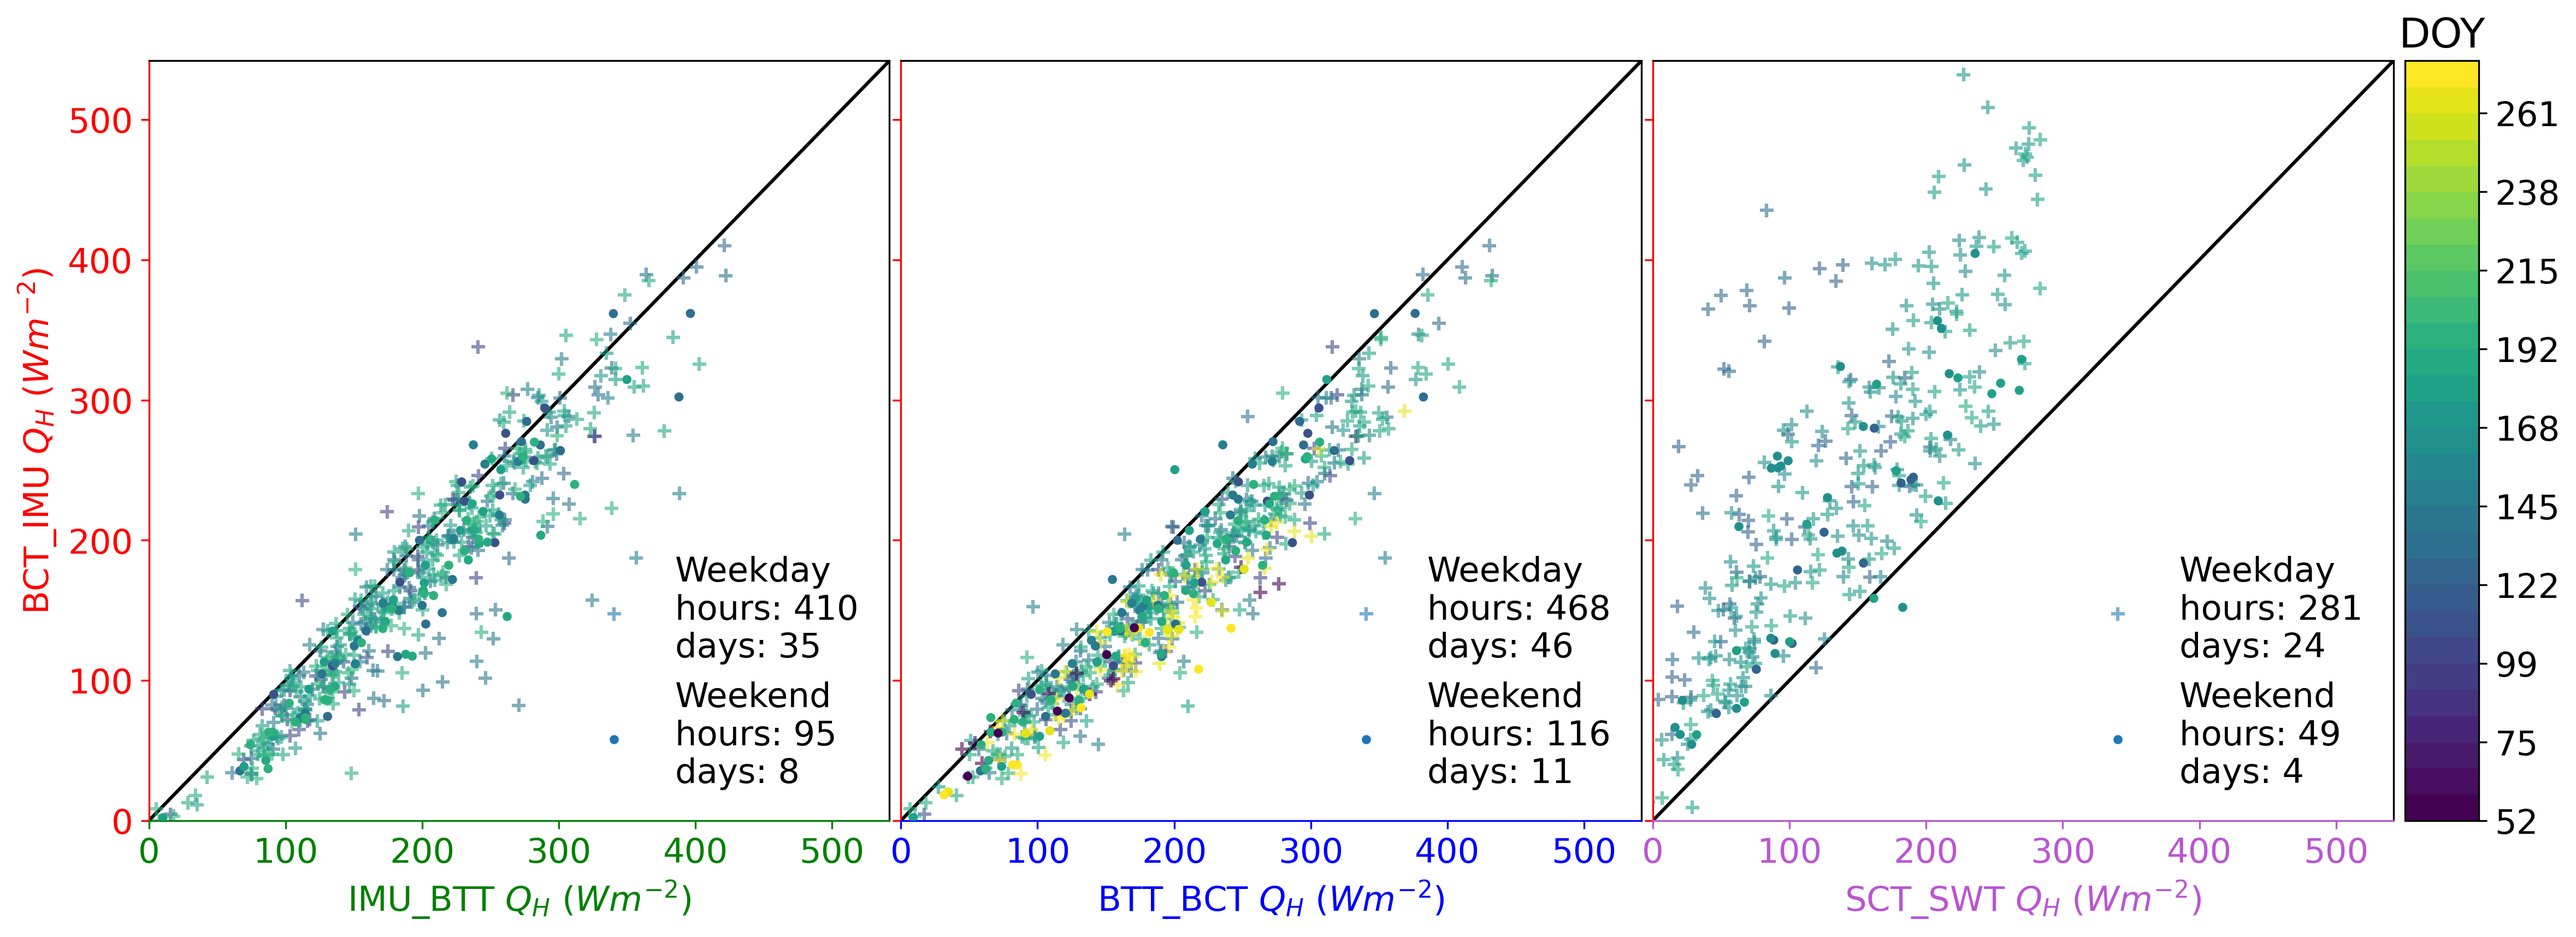
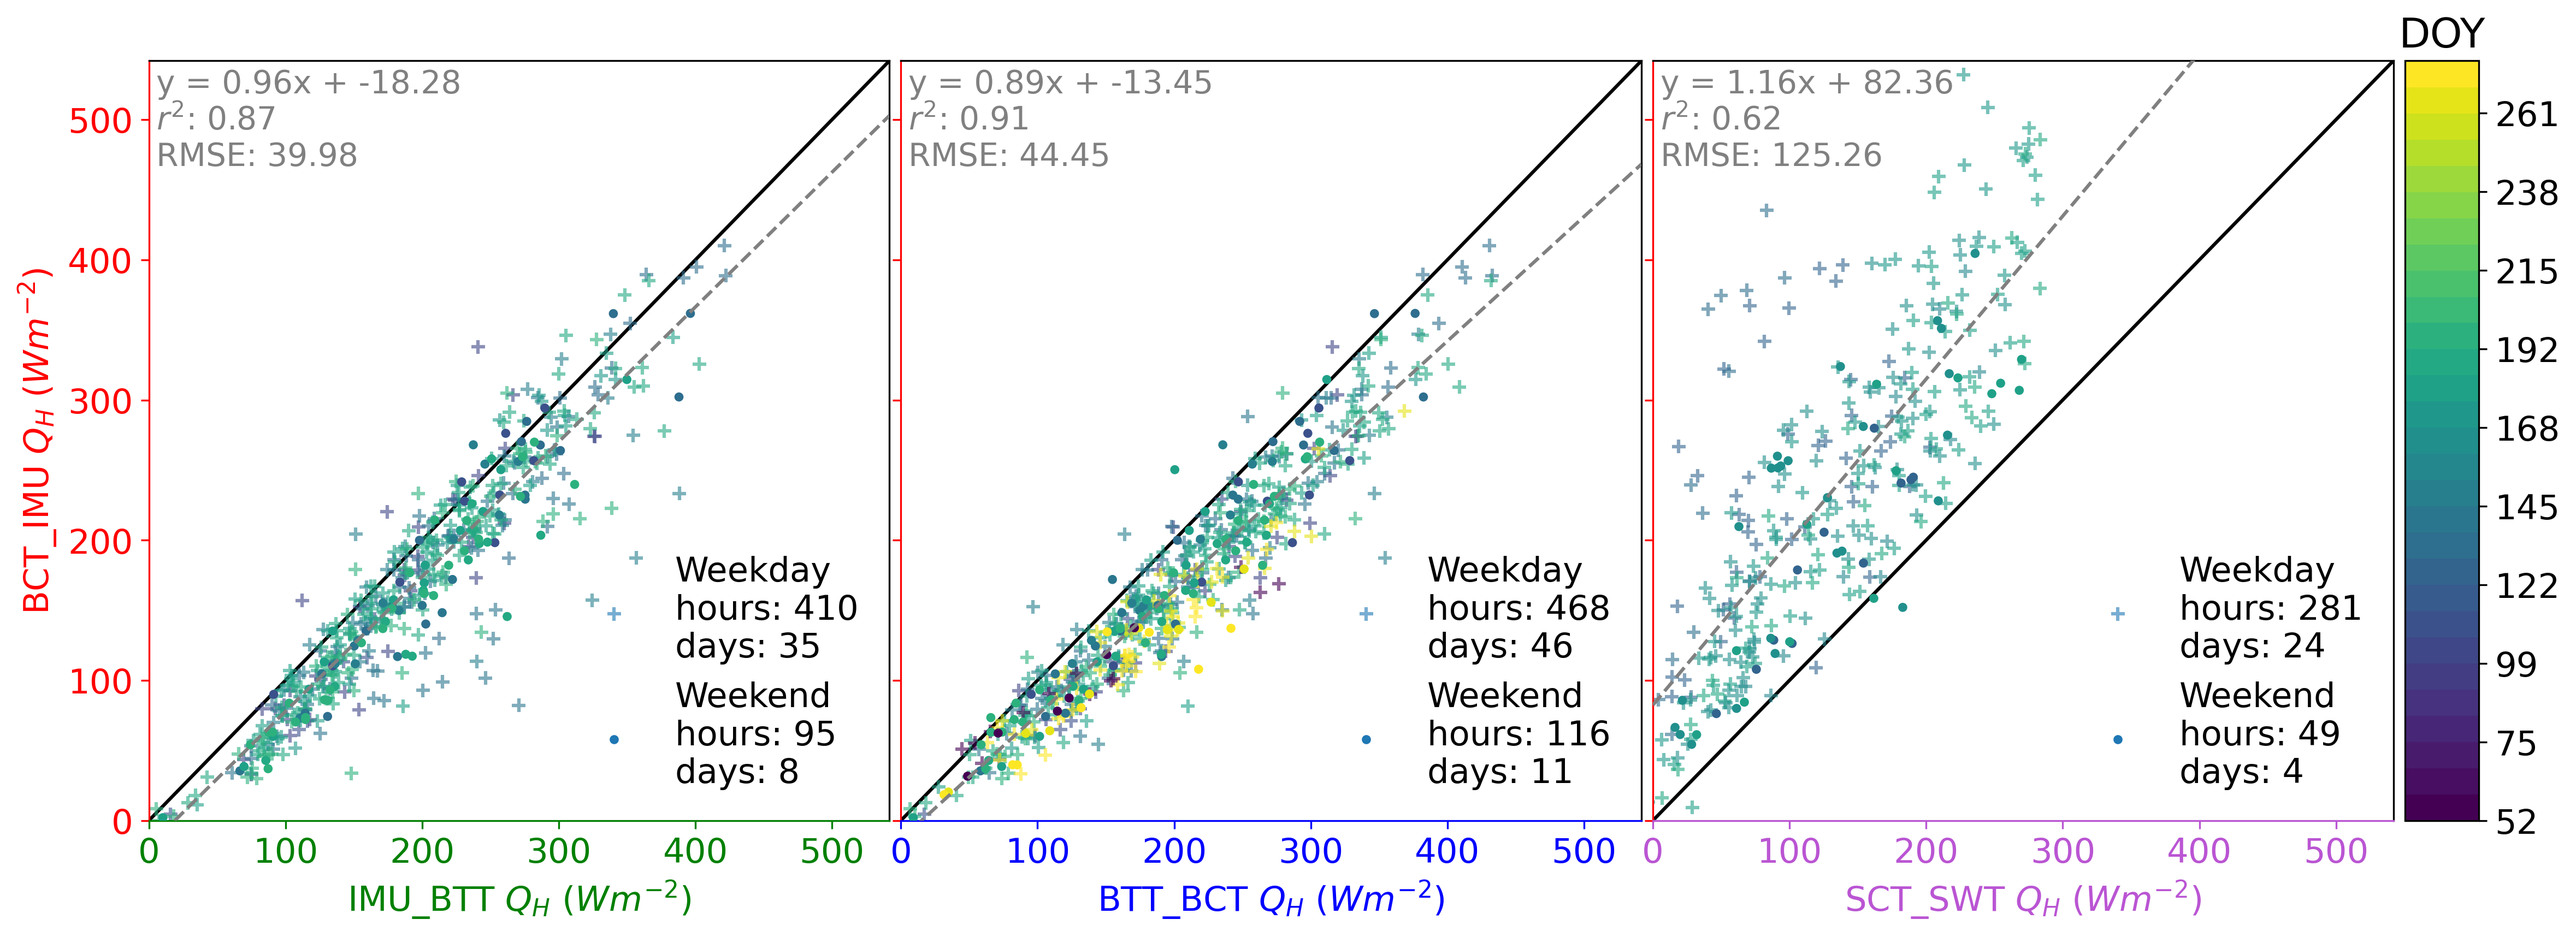
add linear regression stats

diff --git a/scint_plots/path_comparison/path_scatter.py b/scint_plots/path_comparison/path_scatter.py
@@ -7,6 +7,7 @@ import numpy as np
 import matplotlib.pyplot as plt
 import matplotlib as mpl
 import os
+from scipy import stats
 
 mpl.rcParams.update({'font.size': 15})
 
@@ -40,6 +41,15 @@ def read_all_scint_data():
     return df_combine
 
 
+def rmse(obs, mod):
+    # ROOT MEAN SQUARE ERROR FUNCTION
+    differencesrmse = mod - obs
+    differences_squared = differencesrmse ** 2
+    mean_of_differences_squared = differences_squared.mean()
+    rmse_val = np.sqrt(mean_of_differences_squared)
+    return rmse_val
+
+
 def scatter_paths(df_combine, save_path):
     """
 
@@ -67,7 +77,29 @@ def scatter_paths(df_combine, save_path):
     df_weekend = df_combine.iloc[weekend_index]
     df_weekday = df_combine.iloc[weekday_index]
 
+    # limits of axis
+    ax_max = df_combine.max().max() + 10
+    ax_min = 0
+
     # BCT_IMU VS IMU_BTT
+
+    # stats
+    # all df
+    all_df_0 = df_combine[['QH_13', 'QH_12']].dropna()
+    gradient0, intercept0, r_value0, p_value0, std_err0 = stats.linregress(all_df_0.QH_13, all_df_0.QH_12)
+    x1_all = np.linspace(ax_min, ax_max, 500)
+    y10 = gradient0 * x1_all + intercept0
+    ax[0].plot(x1_all, y10, linestyle='--', color='grey', zorder=4)
+
+    # text
+    line_string_0 = 'y = ' + str(round(gradient0, 2)) + 'x + ' + str(round(intercept0, 2))
+    r_squ_0 = r_value0 ** 2
+    rmse_0 = rmse(all_df_0.QH_13, all_df_0.QH_12)
+
+    label_string_0 = line_string_0 + '\n' + '$r^{2}$: ' + str(round(r_squ_0, 2)) + '\n' + 'RMSE: ' + str(round(rmse_0, 2))
+    ax[0].text(.01, .99, label_string_0, ha='left', va='top', transform=ax[0].transAxes, color='grey', fontsize=14)
+
+
     # weekday
     weekday_label_0 = 'Weekday\nhours: ' + str(len(df_weekday[['QH_13', 'QH_12']].dropna())) + '\ndays: ' + str(len(
         [group[1] for group in
@@ -89,6 +121,22 @@ def scatter_paths(df_combine, save_path):
     ax[0].xaxis.label.set_color('green')
 
     # BCT_IMU VS BTT_BCT
+
+    # stats
+    # all df
+    all_df_1 = df_combine[['QH_11', 'QH_12']].dropna()
+    gradient1, intercept1, r_value1, p_value1, std_err1 = stats.linregress(all_df_1.QH_11, all_df_1.QH_12)
+    y11 = gradient1 * x1_all + intercept1
+    ax[1].plot(x1_all, y11, linestyle='--', color='grey', zorder=4)
+
+    # text
+    line_string_1 = 'y = ' + str(round(gradient1, 2)) + 'x + ' + str(round(intercept1, 2))
+    r_squ_1 = r_value1 ** 2
+    rmse_1 = rmse(all_df_1.QH_11, all_df_1.QH_12)
+
+    label_string_1 = line_string_1 + '\n' + '$r^{2}$: ' + str(round(r_squ_1, 2)) + '\n' + 'RMSE: ' + str(round(rmse_1, 2))
+    ax[1].text(.01, .99, label_string_1, ha='left', va='top', transform=ax[1].transAxes, color='grey', fontsize=14)
+
     # weekday
     weekday_label_1 = 'Weekday\nhours: ' + str(len(df_weekday[['QH_11', 'QH_12']].dropna())) + '\ndays: ' + str(len(
         [group[1] for group in
@@ -112,6 +160,22 @@ def scatter_paths(df_combine, save_path):
     ax[1].xaxis.label.set_color('blue')
 
     # BCT_IMU VS SCT_SWT
+
+    # stats
+    # all df
+    all_df_2 = df_combine[['QH_15', 'QH_12']].dropna()
+    gradient2, intercept2, r_value2, p_value2, std_err2 = stats.linregress(all_df_2.QH_15, all_df_2.QH_12)
+    y12 = gradient2 * x1_all + intercept2
+    ax[2].plot(x1_all, y12, linestyle='--', color='grey', zorder=4)
+
+    # text
+    line_string_2 = 'y = ' + str(round(gradient2, 2)) + 'x + ' + str(round(intercept2, 2))
+    r_squ_2 = r_value2 ** 2
+    rmse_2 = rmse(all_df_2.QH_15, all_df_2.QH_12)
+
+    label_string_2 = line_string_2 + '\n' + '$r^{2}$: ' + str(round(r_squ_2, 2)) + '\n' + 'RMSE: ' + str(round(rmse_2, 2))
+    ax[2].text(.01, .99, label_string_2, ha='left', va='top', transform=ax[2].transAxes, color='grey', fontsize=14)
+
     # weekday
     weekday_label_2 = 'Weekday\nhours: ' + str(len(df_weekday[['QH_15', 'QH_12']].dropna())) + '\ndays: ' + str(len(
         [group[1] for group in
@@ -144,21 +208,17 @@ def scatter_paths(df_combine, save_path):
     ax[2].spines['left'].set_color('red')
     ax[2].tick_params(axis='y', colors='red')
 
-    ax_x_max = df_combine.max().max() + 10
-    ax_y_max = df_combine.QH_12.max().max() + 10
+    ax[0].set_xlim(ax_min, ax_max)
+    ax[1].set_xlim(ax_min, ax_max)
+    ax[2].set_xlim(ax_min, ax_max)
 
-    ax_min = 0
-    ax[0].set_xlim(ax_min, ax_x_max)
-    ax[1].set_xlim(ax_min, ax_x_max)
-    ax[2].set_xlim(ax_min, ax_x_max)
+    ax[0].set_ylim(ax_min, ax_max)
+    ax[1].set_ylim(ax_min, ax_max)
+    ax[2].set_ylim(ax_min, ax_max)
 
-    ax[0].set_ylim(ax_min, ax_y_max)
-    ax[1].set_ylim(ax_min, ax_y_max)
-    ax[2].set_ylim(ax_min, ax_y_max)
-
-    ax[0].plot((ax_min, ax_y_max), (ax_min, ax_y_max), color='k', zorder=1)
-    ax[1].plot((ax_min, ax_y_max), (ax_min, ax_y_max), color='k', zorder=1)
-    ax[2].plot((ax_min, ax_y_max), (ax_min, ax_y_max), color='k', zorder=1)
+    ax[0].plot((ax_min, ax_max), (ax_min, ax_max), color='k', zorder=1)
+    ax[1].plot((ax_min, ax_max), (ax_min, ax_max), color='k', zorder=1)
+    ax[2].plot((ax_min, ax_max), (ax_min, ax_max), color='k', zorder=1)
 
     cax = ax[3]
     cbar = fig.colorbar(mappable=ye, cax=cax, format='%.0f')
